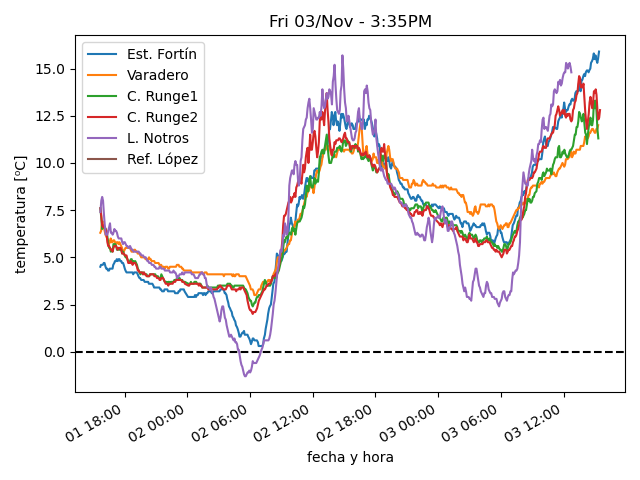
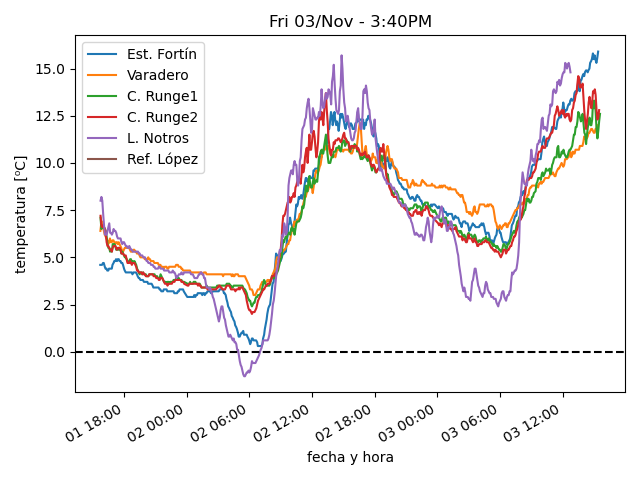
actualiza datos

diff --git a/estaciones/estacion3.html b/estaciones/estacion3.html
@@ -18,32 +18,32 @@
     </tr>
     <tr>
      <td class="stats_data">
-      3:19PM
+      3:34PM
      </td>
     </tr>
     <tr>
      <td class="stats_data">
-      11.3⁰C
+      12.6⁰C
      </td>
     </tr>
     <tr>
      <td class="stats_data">
-      4.3⁰C
+      5.3⁰C
      </td>
     </tr>
     <tr>
      <td class="stats_data">
-      61.7%
+      61.2%
      </td>
     </tr>
     <tr>
      <td class="stats_data">
-      1009.41hPa
+      1009.21hPa
      </td>
     </tr>
     <tr>
      <td class="stats_data">
-      7.0/10.1 km/hr NW
+      7.1/10.1 km/hr NNW
      </td>
     </tr>
     <tr>
@@ -53,12 +53,12 @@
     </tr>
     <tr>
      <td class="stats_data">
-      6.0
+      9.0
      </td>
     </tr>
     <tr>
      <td class="stats_data">
-      575.2 W/m²
+      863.2 W/m²
      </td>
     </tr>
    </tbody>
